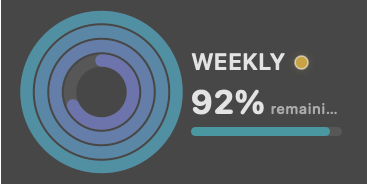
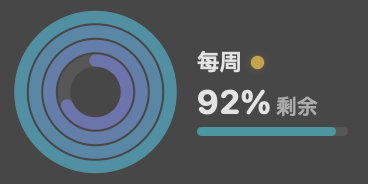
Release Codex Usage 1.1.2

diff --git a/CodexUsageMonitor/CodexUsageMonitorView.swift b/CodexUsageMonitor/CodexUsageMonitorView.swift
@@ -12,6 +12,7 @@ struct CodexUsageMonitorView: View {
 
     private static let carouselInterval: TimeInterval = 8
     private var dim: CGFloat { min(size.width, size.height) }
+    private var compactRingSize: CGFloat { dim * WidgetMetrics.contentScale }
     private var horizontalRingMetricSpacing: CGFloat { dim * 0.14 }
     private var slotSpan: WidgetSlotSpan { WidgetSlotSpan.detect(size: size, isVertical: isVertical) }
     private var theme: CodexThemeColors {
@@ -67,7 +68,7 @@ struct CodexUsageMonitorView: View {
             if let window = monitor.window(for: displayLimit) {
                 ZStack {
                     compactRing(window, style: activeStyle)
-                        .padding(dim * 0.09)
+                        .frame(width: compactRingSize, height: compactRingSize)
                         .id(activeStyle)
                         .transition(.opacity.combined(with: .scale(scale: 0.94)))
 
@@ -85,11 +86,15 @@ struct CodexUsageMonitorView: View {
                             .transition(.opacity.combined(with: .scale(scale: 0.92)))
                     }
                 }
+                .frame(width: compactRingSize, height: compactRingSize)
                 .animation(.easeInOut(duration: 0.35), value: activeStyle)
                 .overlay(alignment: .topTrailing) {
                     if showStatus {
-                        compactStatusDot
-                            .padding(dim * 0.10)
+                        statusDot(size: compactRingSize * 0.13)
+                            .offset(
+                                x: compactRingSize * 0.015,
+                                y: -compactRingSize * 0.015
+                            )
                     }
                 }
             } else {
@@ -363,11 +368,18 @@ struct CodexUsageMonitorView: View {
     }
 
     private var compactStatusDot: some View {
+        statusDot(size: max(5, dim * 0.07))
+    }
+
+    private func statusDot(size: CGFloat) -> some View {
         let indicator = monitor.serviceStatus?.overallIndicator ?? .unknown
         return Circle()
             .fill(indicator.color(for: appearance))
-            .frame(width: max(5, dim * 0.07), height: max(5, dim * 0.07))
-            .overlay(Circle().stroke(Color.white.opacity(0.55), lineWidth: 0.8))
+            .frame(width: size, height: size)
+            .overlay {
+                Circle()
+                    .stroke(Color.primary.opacity(0.16), lineWidth: 0.6)
+            }
             .shadow(
                 color: indicator.color(for: appearance).opacity(0.28),
                 radius: 2

diff --git a/README.md b/README.md
@@ -8,7 +8,14 @@ Dock and a native SwiftUI panel.
 > This widget is distributed independently and is not part of the DockDoor Pro
 > marketplace. Installation is manual.
 
-## What's new in 1.1.1
+## What's new in 1.1.2
+
+- The one-slot quota ring now uses the same full-size footprint as the
+  Pomodoro widget for better Dock readability.
+- The service-status dot now follows the ring edge and uses the subtler
+  low-contrast outline from the Pomodoro widget.
+
+## 1.1.1 highlights
 
 - Two- and three-slot Dock layouts now provide clearer separation between the
   quota ring and the adjacent percentage, reset, and service-status metrics.

diff --git a/CHANGELOG.md b/CHANGELOG.md
@@ -1,5 +1,12 @@
 # Changelog
 
+## 1.1.2 - 2026-08-18
+
+- Enlarged the one-slot quota ring to match the shared Dock widget footprint.
+- Repositioned the one-slot service-status dot against the ring edge and
+  replaced its bright white border with a subtle adaptive outline.
+- Regenerated the Dock layout screenshots from the updated SwiftUI source.
+
 ## 1.1.1 - 2026-08-11
 
 - Increased the horizontal separation between the quota ring and its adjacent
